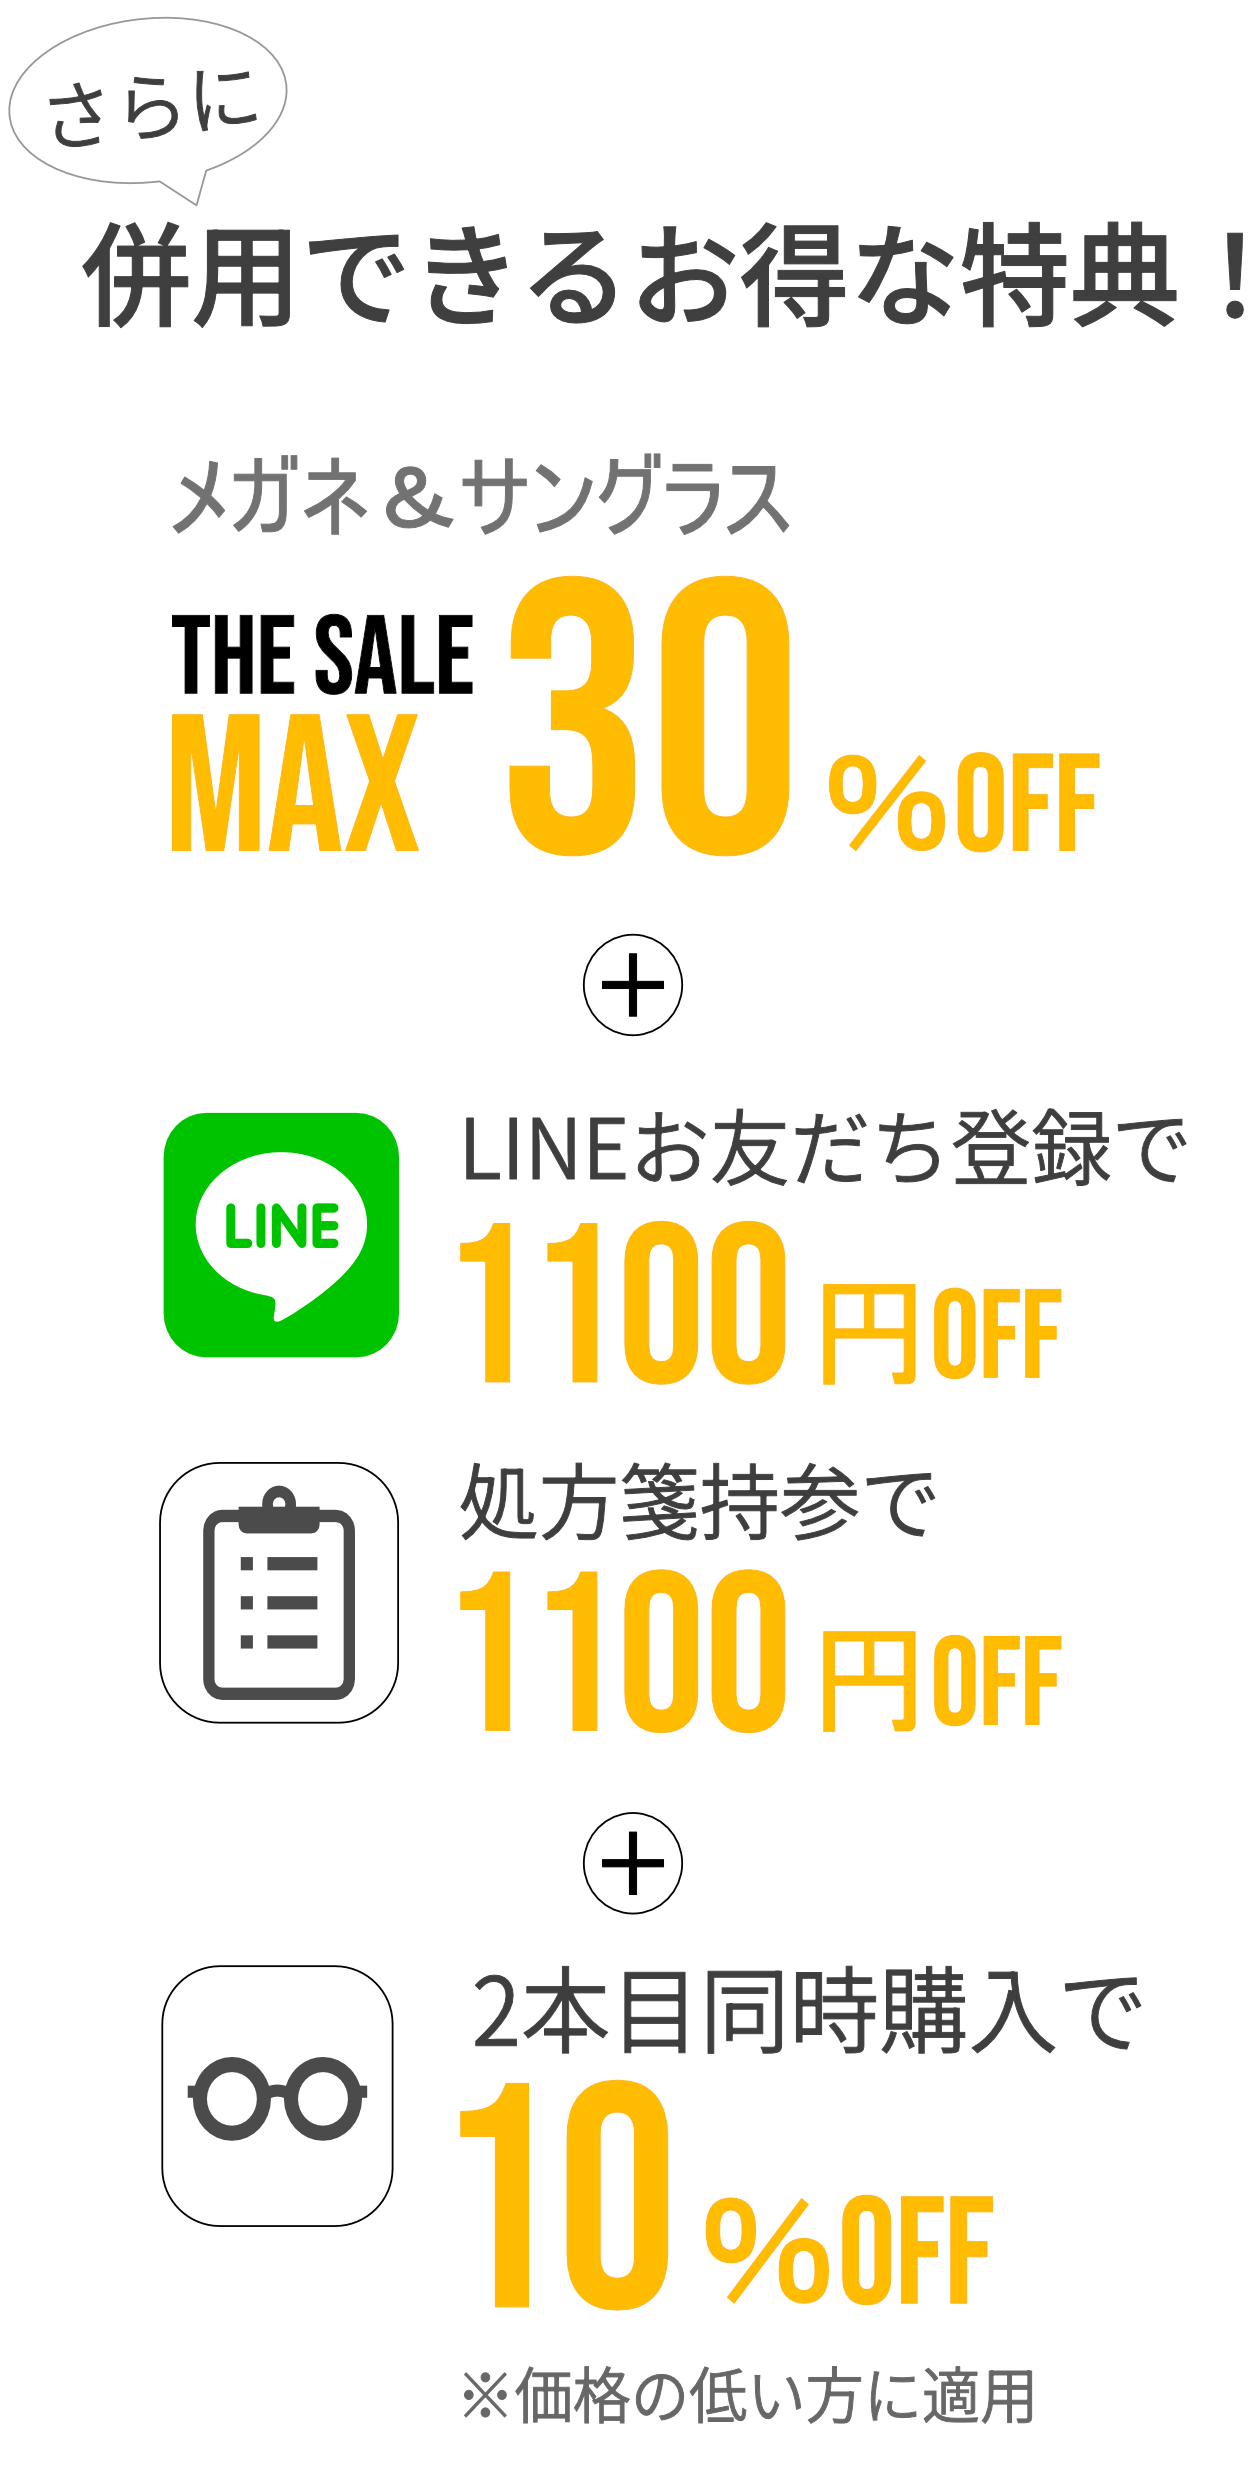
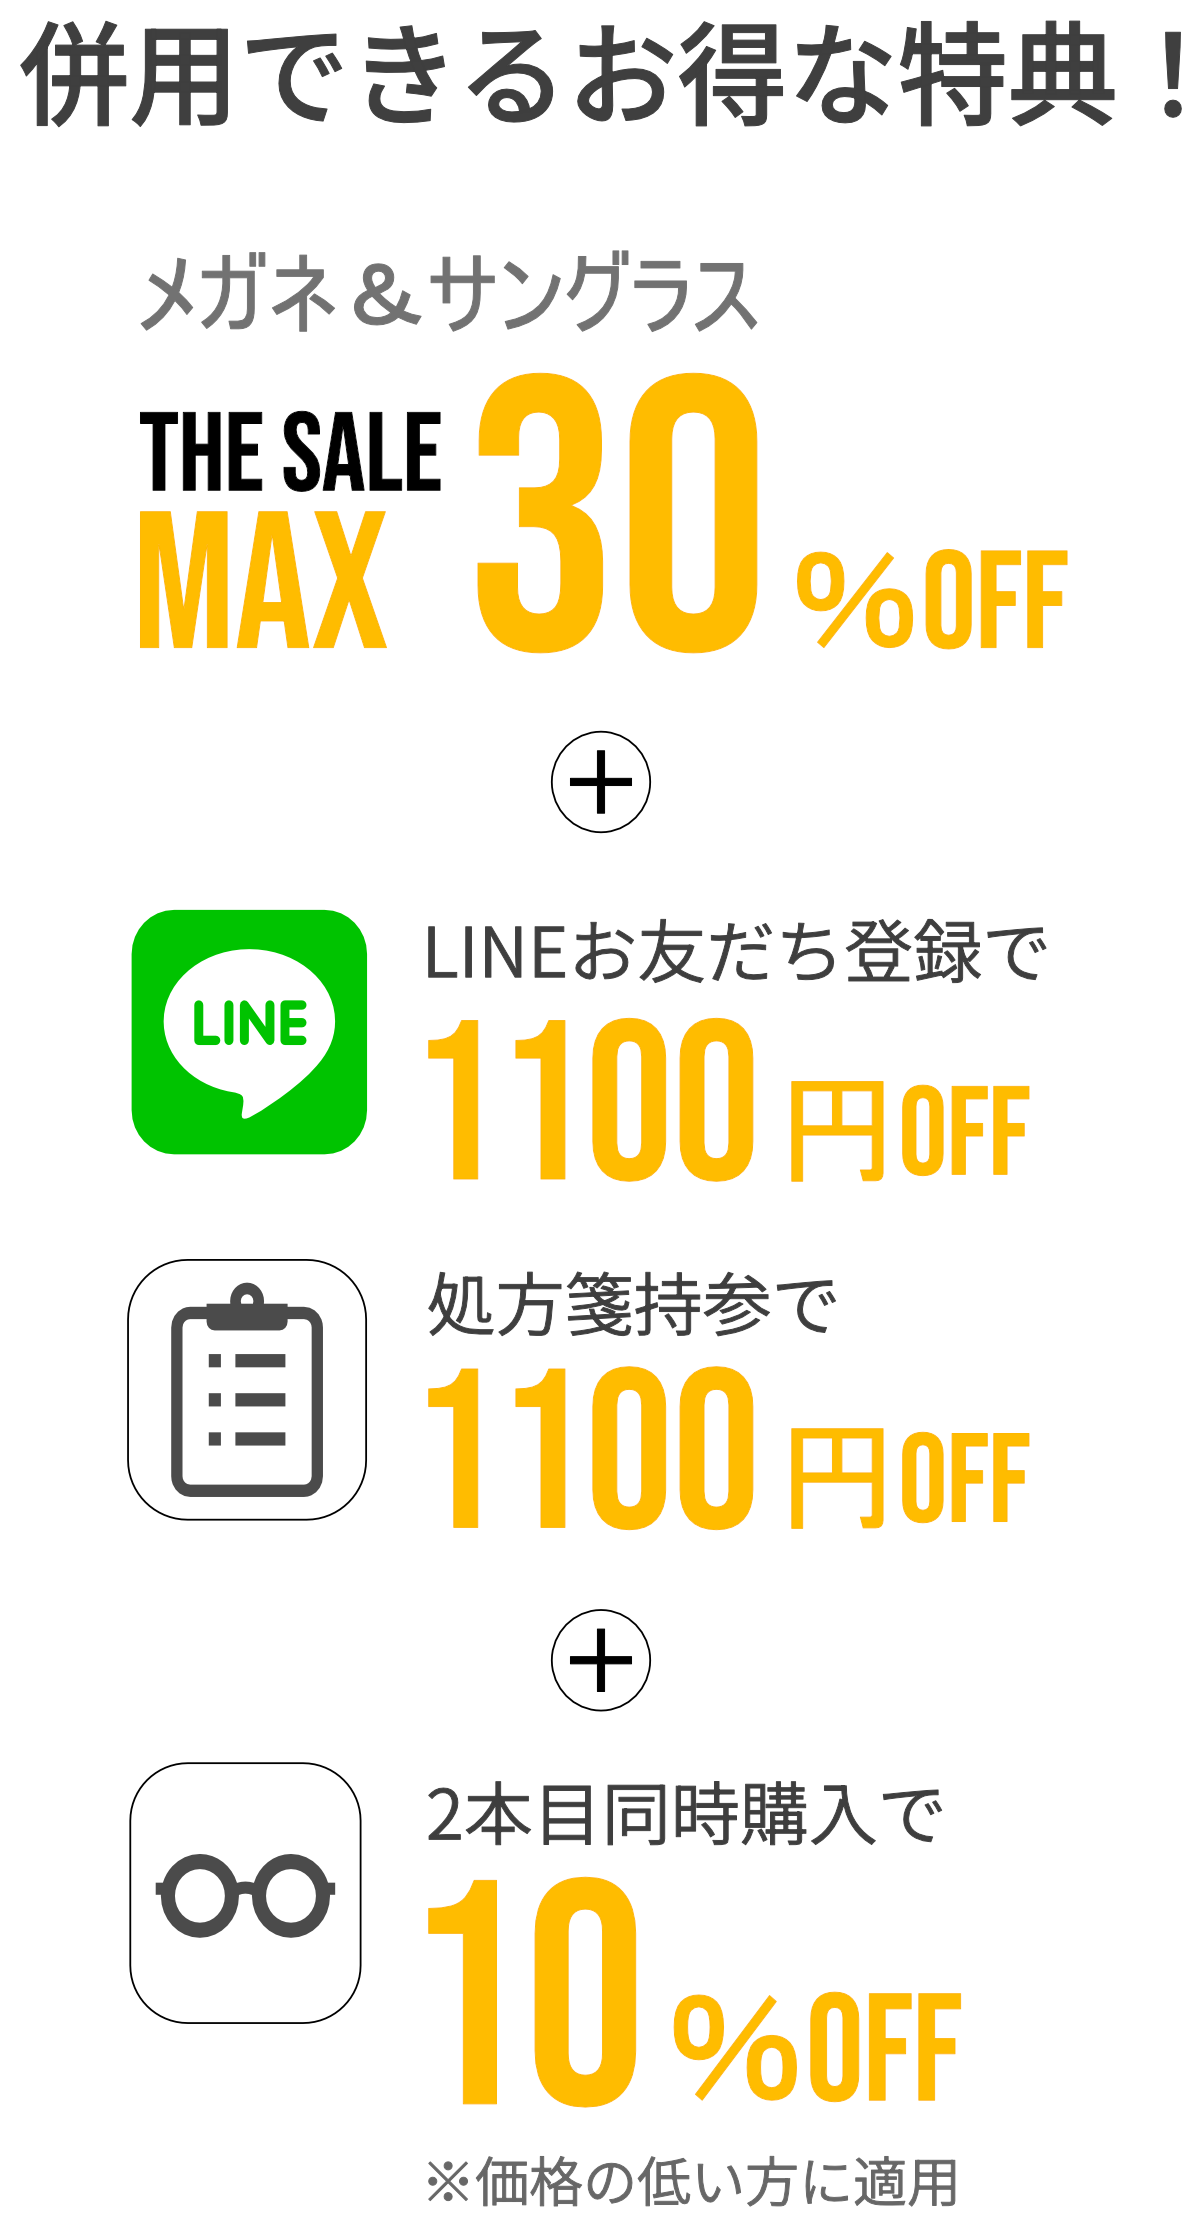
CTAボタンにホバー時の色変化を追加、FVロゴと特典画像の色/余白崩れを修正

diff --git a/index.html b/index.html
@@ -46,8 +46,9 @@
     text-decoration: none;
     border-radius: 12px 0 0 12px;
     box-shadow: -4px 4px 16px rgba(0,0,0,0.3);
-    transition: opacity 0.4s ease;
+    transition: opacity 0.4s ease, background .2s;
   }
+  .floating-cta:hover { background: #e0b400; }
   .floating-cta-icon { width: clamp(22px, 2.6vw, 28px); height: auto; }
   .floating-cta-text {
     writing-mode: vertical-rl; text-orientation: mixed;
@@ -224,7 +225,9 @@
     text-decoration: none; white-space: nowrap;
     box-shadow: 0 8px 20px rgba(0,0,0,0.3);
     border-radius: 8px;
+    transition: background .2s;
   }
+  .fv-cta:hover { background: #eee; }
   .fv-cta::after { content: '\2192'; font-weight: 900; }
 
   /* スマホ専用FV(PC版と同じ「1枚絵+写真を重ねる」方式だが、
@@ -265,12 +268,18 @@
     background: #FBF6EA;
     padding: clamp(24px, 4vh, 40px) clamp(8px, 1vw, 16px);
   }
-  .perk-inner { max-width: 1000px; margin: 0 auto; }
+  .perk-inner { max-width: 1000px; margin: 0 auto; position: relative; }
   .perk-benefits-image { display: block; width: 100%; height: auto; }
+  .perk-bubble { margin: 0 0 10px; }
+  .perk-bubble-desktop {
+    position: absolute; top: 13.5%; left: 6%;
+    transform: translateY(-50%);
+  }
   .only-mobile { display: none !important; }
   @media (max-width: 640px) {
     .only-mobile { display: block !important; }
     .only-desktop { display: none !important; }
+    .perk-bubble.only-mobile { display: inline-block !important; }
   }
 
   /* ══════════════ FV より下のセクション ══════════════ */
@@ -481,7 +490,9 @@
     background: #E30212; color: #fff; font-weight: 700;
     font-size: 19px; letter-spacing: 0.05em;
     text-decoration: none; border-radius: 8px;
+    transition: background .2s;
   }
+  .price-card-cta:hover { background: #b3010e; }
   .price-card-cta::after { content: '\25b6'; font-weight: 900; }
   .price-list-cta-wrap { display: flex; justify-content: center; margin-top: 28px; }
   .price-list-cta-wrap .price-card-cta { margin-top: 0; white-space: nowrap; }
@@ -532,7 +543,9 @@
     background: #fff; color: #666; border: 1.5px solid #ccc;
     font-size: 13px; font-weight: 700; padding: 8px 16px;
     border-radius: 6px; text-decoration: none;
+    transition: background .2s, border-color .2s;
   }
+  .price-teaser-cta a:hover { background: #f5f5f5; border-color: #999; }
   .price-teaser-note { margin: 0; font-size: 12px; color: #111; text-align: left; }
   @media (max-width: 560px) {
     .price-teaser { flex-direction: column; padding: 24px 20px; gap: 20px; }
@@ -663,7 +676,8 @@
     width: 32px; height: 32px; border-radius: 50%;
     background: #F0DDA0; color: #6b5a2a; font-size: 15px; font-weight: 700;
   }
-  .faq-a-link { display: inline-block; margin-left: 6px; color: #999; text-decoration: underline; }
+  .faq-a-link { display: inline-block; margin-left: 6px; color: #999; text-decoration: underline; transition: color .2s; }
+  .faq-a-link:hover { color: #666; }
 
   /* 店舗検索(GW LP版の仕組みを移植) */
   #shop-search { text-align: center; }
@@ -901,6 +915,8 @@
 
     <div class="perk-section">
       <div class="perk-inner">
+        <span class="tv-bubble perk-bubble only-mobile">さらに!</span>
+        <span class="tv-bubble perk-bubble perk-bubble-desktop only-desktop">さらに!</span>
         <img class="perk-benefits-image only-desktop" src="イメージ画像/perk-benefits.png" alt="さらに併用できるお得な特典! THE SALE MAX30%OFF(メガネ&サングラス)+LINEお友だち登録で1,100円OFF・処方箋持参で1,100円OFF+2本目同時購入で10%OFF(価格の低い方に適用)">
         <img class="perk-benefits-image only-mobile" src="イメージ画像/sumaho.png" alt="さらに併用できるお得な特典! THE SALE MAX30%OFF(メガネ&サングラス)+LINEお友だち登録で1,100円OFF・処方箋持参で1,100円OFF+2本目同時購入で10%OFF(価格の低い方に適用)">
       </div>
@@ -1075,7 +1091,7 @@
       <div class="fit-band">
         <div class="fit-band-photo"><img class="is-contain" src="イメージ画像/accomref-speedy-i.png" alt="調節機能解析装置 アコモレフSpeedy-i(測定無料)"></div>
         <div class="fit-band-text">
-          <span class="tv-bubble">TV番組で紹介されました!</span>
+          <span class="tv-bubble">NHK番組で紹介されました!</span>
           <h3>調節機能解析装置で<br>眼のストレスを無料解析!</h3>
           <p>その疲れ目、メガネが原因かもしれません。「アコモレフSpeedy-i」で目の調節力やストレス度合いを無料でチェック(約2分)。他店でお作りのメガネのご相談も歓迎です。</p>
         </div>
